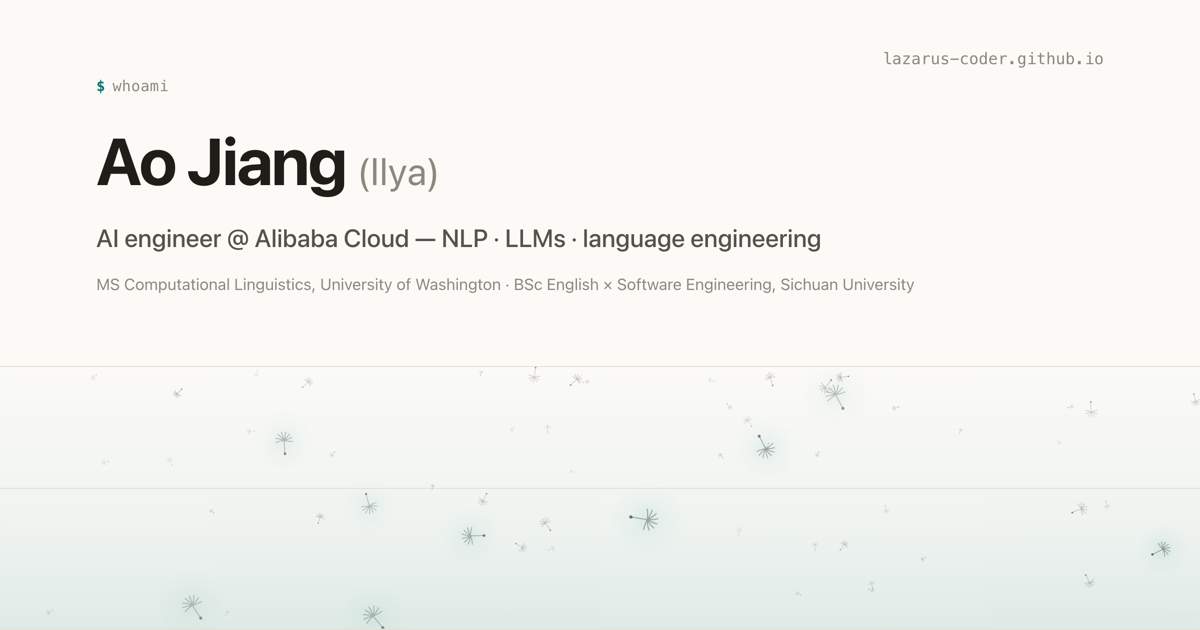
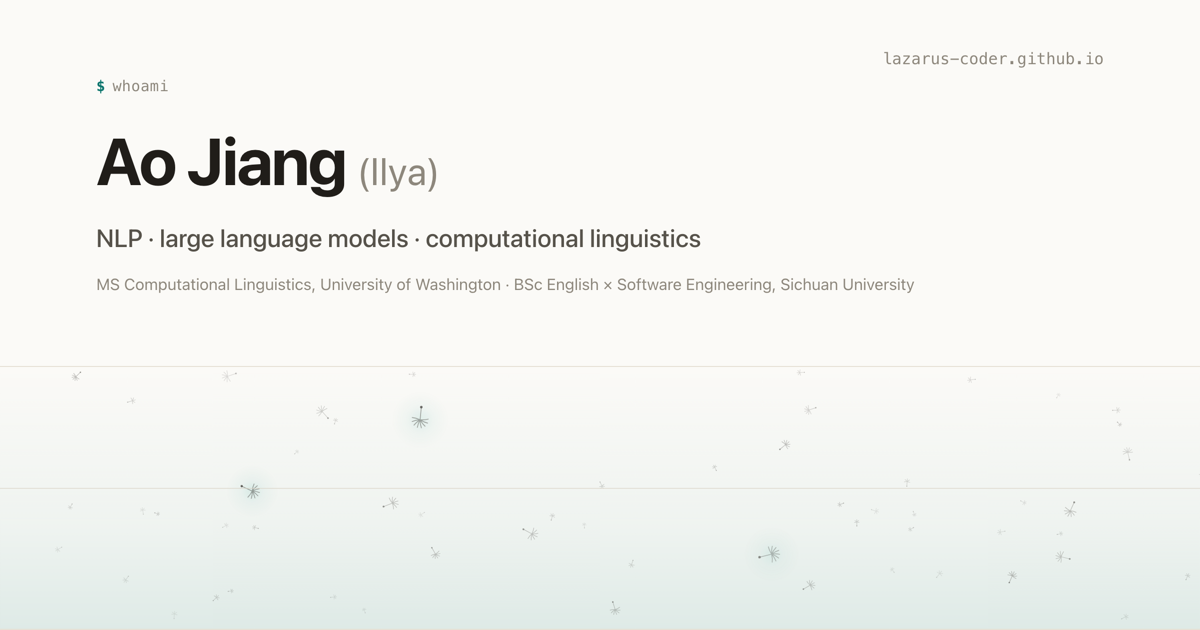
content: refocus site on education and interests, drop employer line
Remove the employer mention from the hero, about page, meta description,
page title and the generated og card. The site now leads with research
interests (NLP · LLMs · computational linguistics), the education lines,
and a quiet personal-interests line ('offline').

diff --git a/index.html b/index.html
@@ -6,11 +6,12 @@ layout: default
   <div class="container">
     <p class="prompt"><span class="ps1">$</span> whoami <span class="cursor" aria-hidden="true">▍</span></p>
     <h1 class="hero-name">Ao Jiang <span class="hero-alias">(Ilya)</span></h1>
-    <p class="hero-role">AI engineer @ Alibaba Cloud — NLP · LLMs · language engineering</p>
+    <p class="hero-role">NLP · large language models · computational linguistics</p>
     <p class="hero-edu mono">
       MS Computational Linguistics, University of Washington<br>
       BSc English × Software Engineering, Sichuan University
     </p>
+    <p class="hero-offline">offline — fitness · cooking · long-form writing · small personal systems</p>
     <p class="hero-links mono">
       <a href="https://github.com/{{ site.github_username }}" rel="me">github ↗</a>
       <a href="mailto:{{ site.email }}">email ↗</a>

diff --git a/_layouts/default.html b/_layouts/default.html
@@ -1,7 +1,7 @@
 <!DOCTYPE html>
 <html lang="en">
   <head>
-    <title>{% if page.url == '/' %}{{ site.name }} — AI engineer · NLP / LLM{% elsif page.title %}{{ page.title }} — {{ site.name }}{% else %}{{ site.name }}{% endif %}</title>
+    <title>{% if page.url == '/' %}{{ site.name }} — NLP · LLMs · computational linguistics{% elsif page.title %}{{ page.title }} — {{ site.name }}{% else %}{{ site.name }}{% endif %}</title>
 
     <meta charset="utf-8">
     {% include meta.html %}

diff --git a/style.scss b/style.scss
@@ -241,6 +241,15 @@ hr { border: 0; border-top: 1px solid var(--line); margin: 2.4em 0; }
   color: var(--ink-3);
 }
 
+.hero-offline {
+  margin: 0 0 18px;
+  font-family: var(--serif);
+  font-style: italic;
+  font-size: 15px;
+  line-height: 1.6;
+  color: var(--ink-3);
+}
+
 .hero-links {
   display: flex;
   flex-wrap: wrap;

diff --git a/about.md b/about.md
@@ -4,15 +4,16 @@ title: about
 permalink: /about/
 ---
 
-I work on machines that handle language — NLP, large language models, and the unglamorous, load-bearing parts of language engineering. Born in Xinjiang, raised on a diet of wind, dust, and existential questions; now I write code full-time and prose the rest of the time.
+I studied language from both sides — English and software engineering at Sichuan University, then computational linguistics at the University of Washington. My interests live where the two meet: NLP, large language models, and the unglamorous, load-bearing parts of language engineering.
+
+Born in Xinjiang, raised on a diet of wind, dust, and existential questions.
 
 This site is where notes, experiments, and essays that don't fit anywhere else drift to rest.
 
 <dl class="facts mono">
-  <dt>role</dt><dd>AI engineer @ Alibaba Cloud</dd>
-  <dt>focus</dt><dd>NLP · LLMs · computational linguistics</dd>
-  <dt>edu</dt><dd>MS Computational Linguistics, University of Washington<br>BSc English × Software Engineering, Sichuan University</dd>
-  <dt>based</dt><dd>China</dd>
+  <dt>research</dt><dd>NLP · large language models · computational linguistics</dd>
+  <dt>education</dt><dd>MS Computational Linguistics, University of Washington<br>BSc English × Software Engineering, Sichuan University</dd>
+  <dt>offline</dt><dd>fitness · cooking · long-form writing · small personal systems</dd>
   <dt>email</dt><dd><a href="mailto:{{ site.email }}">{{ site.email }}</a></dd>
   <dt>github</dt><dd><a href="https://github.com/{{ site.github_username }}" rel="me">github.com/{{ site.github_username }}</a></dd>
 </dl>
